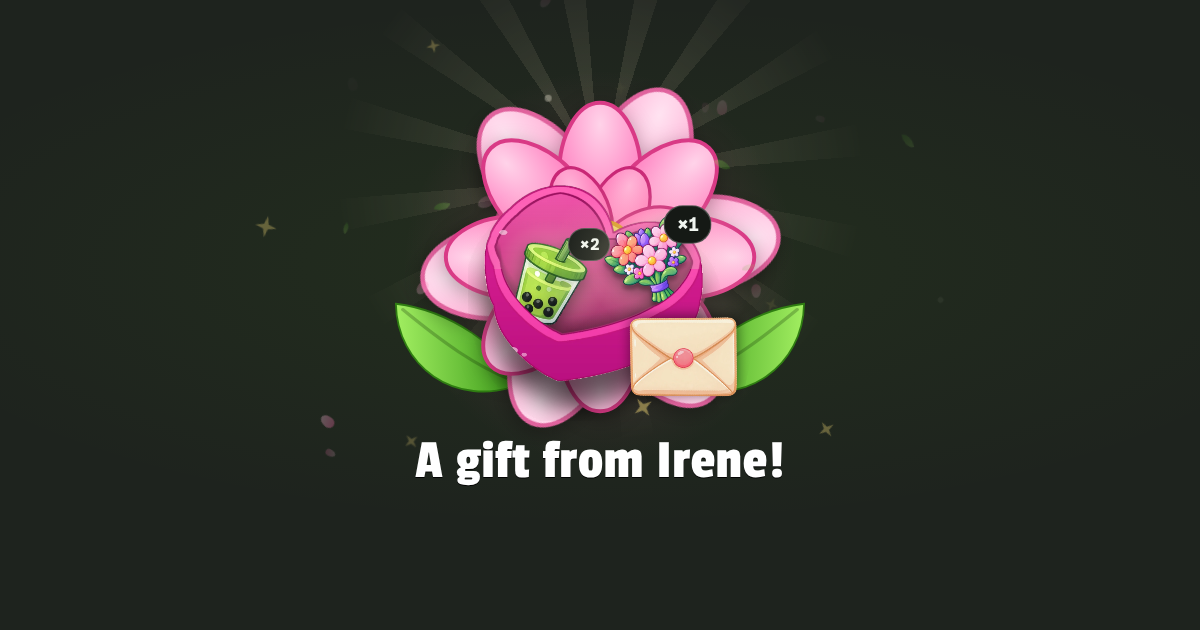
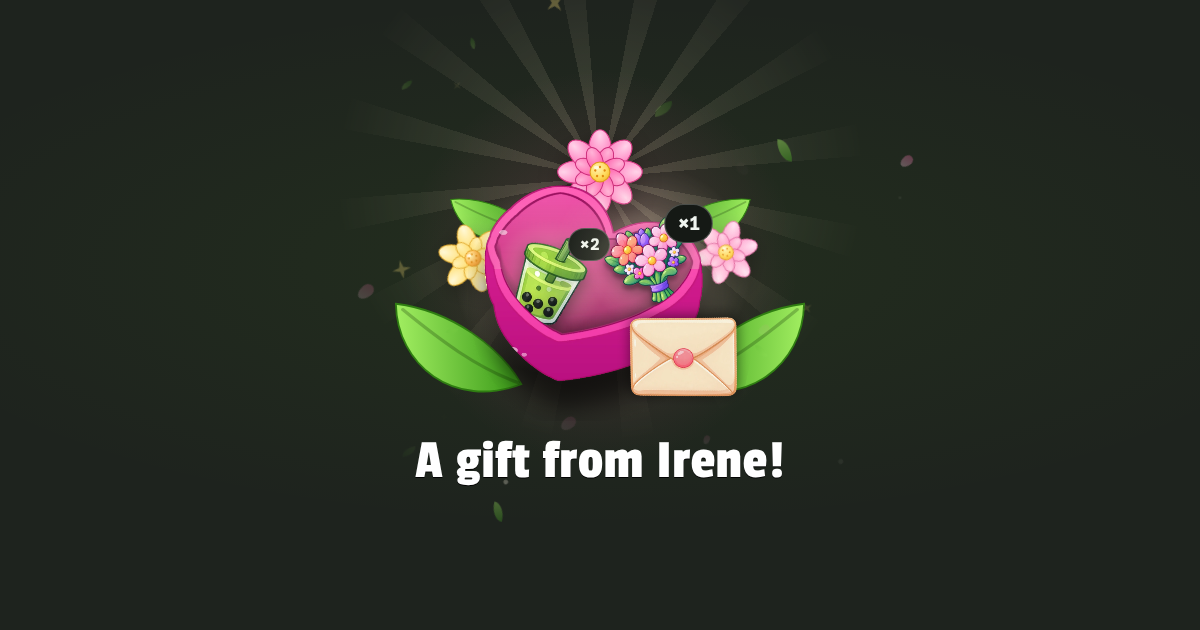
Restore original bloom look; reposition it so the box is centered in front
Ruby asked to reposition the floral bloom behind the box, not restyle it.
Reverts the one-big-flower redesign (114e089) and moves the same three
flowers and two leaves to frame the box from behind.

Claude-Session: https://claude.ai/code/session_011dLXwTGZjhxJhxRuHb4EoR

diff --git a/prototype/src/components/Gift.tsx b/prototype/src/components/Gift.tsx
@@ -266,7 +266,7 @@ const PALETTE: Record<FlowerVariant, { outer: [string, string, string]; inner: [
 }
 
 /** A glossy cartoon flower, colored from the sweetheart box and its ribbon. */
-function Flower({ variant, className, tilt = 0, delay, instant, originY = 0.85 }: { variant: FlowerVariant; className: string; tilt?: number; delay: number; instant: boolean; originY?: number }) {
+function Flower({ variant, className, tilt = 0, delay, instant }: { variant: FlowerVariant; className: string; tilt?: number; delay: number; instant: boolean }) {
   const id = useId()
   const p = PALETTE[variant]
   const petals = variant === 'main' ? 8 : 6
@@ -276,7 +276,7 @@ function Flower({ variant, className, tilt = 0, delay, instant, originY = 0.85 }
       className={`flower ${className}`}
       viewBox="-50 -50 100 100"
       aria-hidden
-      style={{ originX: 0.5, originY, rotate: tilt }}
+      style={{ originX: 0.5, originY: 0.85, rotate: tilt }}
       initial={instant ? { scale: 1, opacity: 1 } : { scale: 0, opacity: 0 }}
       animate={{ scale: 1, opacity: 1 }}
       transition={{ type: 'spring', stiffness: 210, damping: 11, delay: instant ? 0 : delay }}
@@ -318,15 +318,15 @@ function Flower({ variant, className, tilt = 0, delay, instant, originY = 0.85 }
   )
 }
 
-/**
- * The bloom: one big flower opening up behind the box, centered on it, so the box sits in front
- * of the blossom like a halo (Ruby: flowers behind the box, box centered in front).
- */
+/** Flowers and leaves spilling out of the top of the box. They sit behind it, so they read as growing out of it. */
 function Bloom({ instant }: { instant: boolean }) {
   return (
     <div className="bloom" aria-hidden>
-      <Flower variant="pink" className="flower--halo-back" tilt={22.5} delay={0.3} instant={instant} originY={0.5} />
-      <Flower variant="main" className="flower--halo" delay={0.2} instant={instant} originY={0.5} />
+      <Leaf className="top-leaf top-leaf--l" rotate={-52} delay={0.34} instant={instant} />
+      <Leaf className="top-leaf top-leaf--r" rotate={52} delay={0.38} instant={instant} mirror />
+      <Flower variant="yellow" className="flower--side flower--l" tilt={-18} delay={0.32} instant={instant} />
+      <Flower variant="pink" className="flower--side flower--r" tilt={16} delay={0.38} instant={instant} />
+      <Flower variant="main" className="flower--main" delay={0.22} instant={instant} />
     </div>
   )
 }

diff --git a/prototype/src/styles.css b/prototype/src/styles.css
@@ -332,21 +332,42 @@ img {
   overflow: visible;
   filter: drop-shadow(0 6px 10px rgba(0, 0, 0, 0.3));
 }
-/* The bloom behind the box: centered on the box (gift area center ≈ 50%, 46%) */
-.flower--halo {
-  left: -12%;
-  top: -18%;
-  width: 124%;
-  height: 124%;
+/* Same flowers and leaves, arranged around the box so it sits centered in front of the bloom:
+   main flower peeks over the top, the side flowers peek out from behind the left and right edges. */
+.flower--main {
+  left: 33%;
+  top: -5%;
+  width: 34%;
+  height: 34%;
   z-index: 2;
 }
-.flower--halo-back {
-  left: -22%;
-  top: -28%;
-  width: 144%;
-  height: 144%;
+.flower--l {
+  left: -9%;
+  top: 30%;
+  width: 28%;
+  height: 28%;
+  z-index: 3;
+}
+.flower--r {
+  left: 82%;
+  top: 29%;
+  width: 26%;
+  height: 26%;
+  z-index: 3;
+}
+.top-leaf {
+  position: absolute;
   z-index: 1;
-  opacity: 0.9;
+  width: 20%;
+  height: 34%;
+  top: 0%;
+  overflow: visible;
+}
+.top-leaf--l {
+  left: 6%;
+}
+.top-leaf--r {
+  left: 74%;
 }
 .base-leaf {
   position: absolute;

diff --git a/CLAUDE.md b/CLAUDE.md
@@ -38,7 +38,7 @@ Hard requirements:
 
 ## Prototype status (2026-10-04)
 
-- Built and working: idle screen matching Figma, sprout → unboxing (lid pops off, one big flower blooms CENTERED BEHIND the box (halo), gifts pop up and rest INSIDE the open heart box (bottoms behind the front wall) with a scale-in, glow + gentle bob, ×N badges on each gift), envelope → letter card slips out and waits for a tap → fades into the note reading view, open state (arrives with the gifts in the open box, then the lid drops back on: closed formal box; items list; note with rocking sticker underneath; Send a gift back / Visit Irene's garden toasts, close, replay), skip with a 450 ms double-tap guard, keyboard, reduced motion, phone / tablet / desktop layouts.
+- Built and working: idle screen matching Figma, sprout → unboxing (lid pops off, the three-flower bloom sits behind the box framing it (box centered in front), gifts pop up and rest INSIDE the open heart box (bottoms behind the front wall) with a scale-in, glow + gentle bob, ×N badges on each gift), envelope → letter card slips out and waits for a tap → fades into the note reading view, open state (arrives with the gifts in the open box, then the lid drops back on: closed formal box; items list; note with rocking sticker underneath; Send a gift back / Visit Irene's garden toasts, close, replay), skip with a 450 ms double-tap guard, keyboard, reduced motion, phone / tablet / desktop layouts.
 - Code map: `src/timeline.ts` (step timings), `src/App.tsx` (state machine), `components/Stage.tsx` (idle → bloom → letter/note overlay), `Gift.tsx`, `GiftItems.tsx` (gifts inside the box), `Letter.tsx` (from/sending-to card), `Note.tsx`, `OpenView.tsx`, `ClosedView.tsx`, `Particles.tsx`.
 - Deploy: `.github/workflows/deploy-prototype.yml` publishes `prototype/dist` to https://rubywu-ux.github.io/pocket-worlds-oa/ on every push. Pages is on (Source = GitHub Actions) and the site is live. Claude can't change Pages settings via the API.
 - Art in `prototype/src/assets/` is Ruby's 4× Figma exports, converted to WebP (≈390 KB total), imported in `data.ts` so builds give each file a content hash (no stale browser cache), and preloaded in `main.tsx`. If art changes, regenerate `public/og.png` (link preview, 1200×630 of the bloomed state).
@@ -82,4 +82,4 @@ The Reception + Opening prototype (React + Motion + Vite) is live at https://rub
 ## Session log
 
 - 2026-10-04: Created the repo and linked it to the local folder. Wrote the README (brief summary, checklist, AI-use and hours logs). Compared prototype tool options (see Decisions). Added this handoff file.
-- 2026-10-04 (session 1, account 1): Ruby wrote her prototype direction (now `prototype/SPEC.md`). Built the full prototype and the Pages deploy workflow. Changed the first bloom concept (heart split in two) to flowers growing out of a whole heart, because a split heart reads as heartbreak. Pages switched on; live at https://rubywu-ux.github.io/pocket-worlds-oa/. Swapped in Ruby's 4× art (WebP). Synced to Ruby's updated FINAL screens (Sweetheart Box shown, then removed per Ruby: Irene's side only); unboxing added per Ruby; per Ruby: gifts sit inside the box and are emphasized, the gift box returns to its closed formal state on the final screen (a mistaken note→letter fold-back was reverted), fixed hover bug (envelope swapped behind the box: `.gift { isolation: isolate }`); per Ruby: no pencil on the note, gifts rest naturally in the box with badges on each gift, flowers behind the box, then one centered bloom behind the box (box in front); on phones the reply buttons are pinned over a bottom scrim so they stay visible. Per Ruby: the letter card slips out of the envelope first and fades into the note on tap (see SPEC §2). Per Ruby: replaced Irene's avatar with her clean rounded-square version (no dashed frame), shown as a rounded square, and enlarged it in the idle "from Irene" line and the "Irene left you a note" heading.
+- 2026-10-04 (session 1, account 1): Ruby wrote her prototype direction (now `prototype/SPEC.md`). Built the full prototype and the Pages deploy workflow. Changed the first bloom concept (heart split in two) to flowers growing out of a whole heart, because a split heart reads as heartbreak. Pages switched on; live at https://rubywu-ux.github.io/pocket-worlds-oa/. Swapped in Ruby's 4× art (WebP). Synced to Ruby's updated FINAL screens (Sweetheart Box shown, then removed per Ruby: Irene's side only); unboxing added per Ruby; per Ruby: gifts sit inside the box and are emphasized, the gift box returns to its closed formal state on the final screen (a mistaken note→letter fold-back was reverted), fixed hover bug (envelope swapped behind the box: `.gift { isolation: isolate }`); per Ruby: no pencil on the note, gifts rest naturally in the box with badges on each gift, flowers behind the box, bloom repositioned so the box is centered in front of it (same flower style; a one-big-flower redesign was reverted per Ruby); on phones the reply buttons are pinned over a bottom scrim so they stay visible. Per Ruby: the letter card slips out of the envelope first and fades into the note on tap (see SPEC §2). Per Ruby: replaced Irene's avatar with her clean rounded-square version (no dashed frame), shown as a rounded square, and enlarged it in the idle "from Irene" line and the "Irene left you a note" heading.

diff --git a/prototype/SPEC.md b/prototype/SPEC.md
@@ -20,7 +20,7 @@ Ruby's direction for the Part 4 prototype (2026-10-04). This is the source of tr
 - **Updated 2026-10-04:** the gifts stay **inside** the box (not floating outside it), scaled to fit and sitting nicely in it. The gifts are the main point and should be emphasized.
 - At the start, the envelope must stay fixed in front of the box (no movement on hover).
 - **Updated 2026-10-04:** the gifts sit **naturally inside** the box (resting in it, bottoms hidden by the front wall). The **×2 / ×1** badges sit right on their own gift. The flowers bloom **behind** the box, not on top of it (less distracting).
-- **Updated 2026-10-04:** the floral bloom sits fully behind the box: one big flower opening up, **centered behind the box**, with the box in front of it.
+- **Updated 2026-10-04:** keep the floral bloom's original look (three flowers + two leaves, same animation); only **reposition** it so the box sits **centered in front of the bloom** (flowers peek out above and on both sides). (A redesign into one big flower was reverted: Ruby asked for repositioning, not a new style.)
 
 ## 2. Note reveal
 
